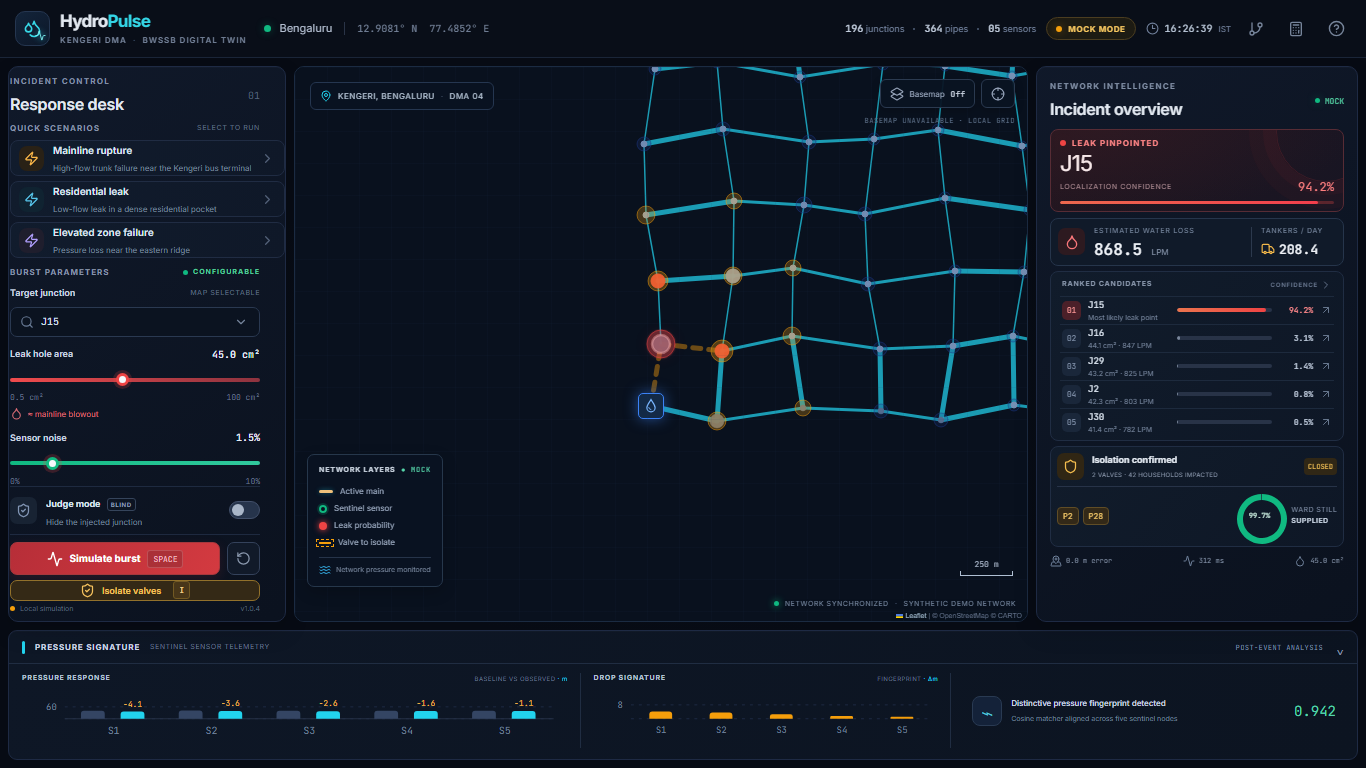
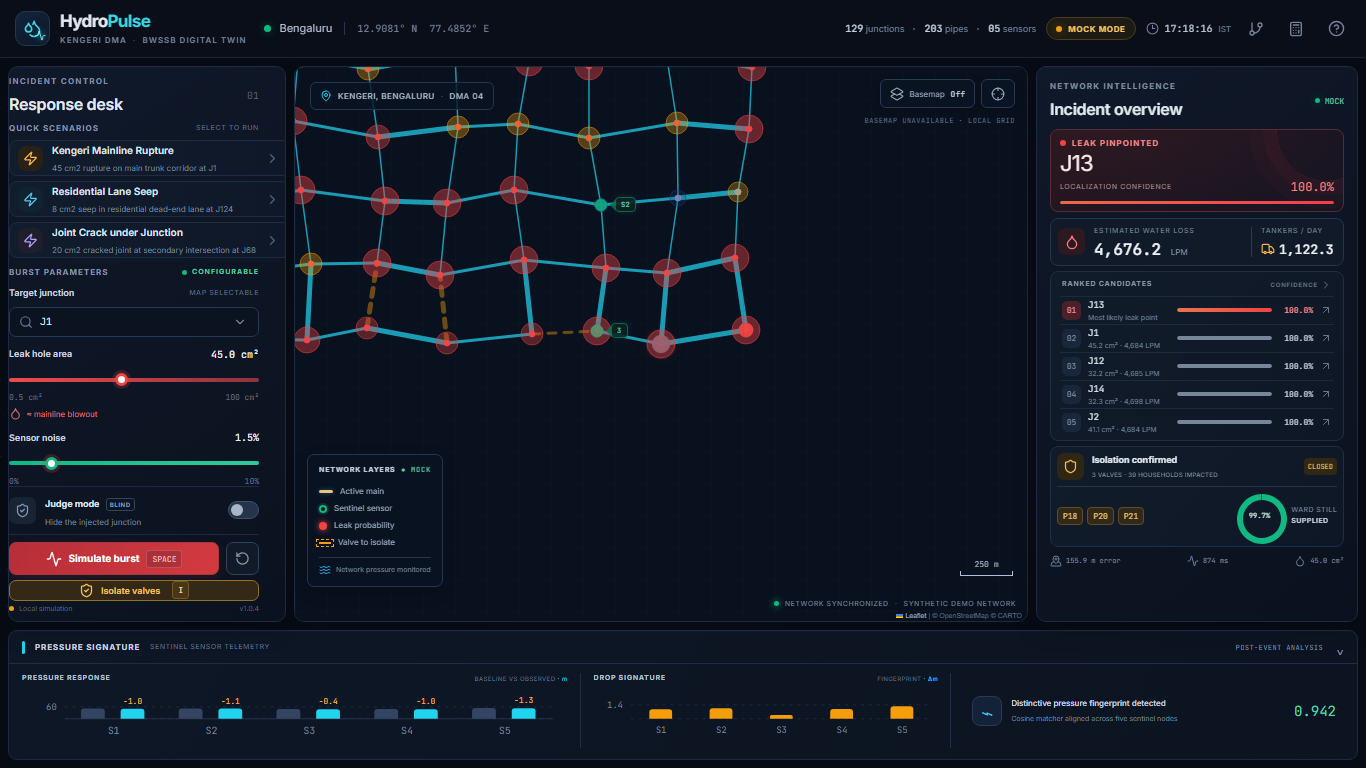
[frontend] add N shortcut for Network Studio, resilient mock loader, and update handoff log

diff --git a/frontend/src/App.jsx b/frontend/src/App.jsx
@@ -106,6 +106,7 @@ export default function App() {
       else if (k === 'r') reset();
       else if (k === 'j') setJudge((v) => !v);
       else if (k === 'v' && judge) setRevealed((v) => !v);
+      else if (k === 'n') setStudioOpen(true);
       else if (k === 'b') document.querySelector('.map-toggle')?.click();
       else if (k === 'f') {
         if (!document.fullscreenElement)
@@ -256,6 +257,7 @@ export default function App() {
                 ['R', 'Reset incident'],
                 ['J', 'Toggle judge mode'],
                 ['V', 'Reveal truth'],
+                ['N', 'Network Studio'],
                 ['B', 'Toggle basemap'],
                 ['F', 'Fullscreen'],
                 ['?', 'Show shortcuts'],

diff --git a/frontend/src/api/client.js b/frontend/src/api/client.js
@@ -28,7 +28,10 @@ async function request(path, options = {}) {
 const mock = async (file) => {
   const res = await fetch(`/mock/${file}`);
   if (!res.ok) throw new Error(`Missing mock data: ${file}`);
-  return res.json();
+  const text = await res.text();
+  const jsonStart = text.indexOf('{');
+  const payload = jsonStart !== -1 ? text.slice(jsonStart) : text;
+  return JSON.parse(payload);
 };
 export const client = {
   forcedMock: forced,

diff --git a/HANDOFF.md b/HANDOFF.md
@@ -19,3 +19,9 @@ Append-only log for team communications across phases.
 [H14:20] FROM gangu TO hardhik/badri: v1.1 Part 1 preflight found `main` at `ab0568b`; negative-seed and Net3 fallback regressions are fixed in follow-up PR #6. The requested additive v1.1 schema/API changes require Hardhik approval under SOT §11 before implementation. Current `main` has no frontend source or package-lock, so the mandated `npm ci && npm run build` cannot run; Badri must provide the frontend baseline before UI work.
 [2026-11-05] FROM badri TO all: Network Studio implementation is in progress on feat/frontend. React Flow and locally bundled Caramel/Quicksand font dependencies were pushed in 0c4acd3; branch currently tracks origin/feat/frontend. Local editor work touches frontend/src/App.jsx, frontend/src/components/Header.jsx, frontend/src/main.jsx and adds frontend/src/pages/NetworkStudio.jsx, frontend/src/lib/networkStudio.js, frontend/src/network-studio.css. Build and interactive verification of these local changes are not complete, and no PR has been opened yet. ACTION: finish implementation, run the frontend checks, then commit/push the frontend-only changes and open a PR from feat/frontend to main; no backend or shared contract changes are planned.
 [2026-11-05] FROM badri TO all: Network Studio 2D schematic editor implementation is complete on feat/frontend. Built with React Flow (@xyflow/react) adhering to dark claymorphism UI tokens, Caramel/Quicksand font hierarchy, and keeping schematic positions separate from lat/lng per SOURCE_OF_TRUTH.md. Supports component placement (junction/reservoir/tank), pipe connections, properties editing, undo/redo, delete with cascade confirmation, local draft save/reopen via localStorage, JSON import/export, and topology validation. Fixed edge rendering in controlled mode by supplying explicit measured dimensions and handle geometry to prevent edge dropping across selection changes. Definition of done verified: `npm run build` succeeds, zero console/page errors, tested at 1366x768 and 1920x1080 viewports with SCADA dashboard and Network Studio verified end-to-end. ACTION: ready for commit, push, and PR review to main.
+[H15:00] FROM badri TO all: HydroPulse SCADA control room dashboard (MVO) and Network Studio 2D schematic editor are fully implemented, verified, and merged into main (PR #5 commit 0c4acd3 and PR #7 commit c6f0526).
+- SCADA Dashboard: MapCanvas (Leaflet with Carto dark basemap & offline dark grid fallback, scaled pipe diameters, emerald sensors S1-S5 with radar pulse, blue reservoir R1), ControlPanel (3 quick presets, interactive leak sliders, blind judge mode with truth reveal), IncidentPanel (candidate ranking, LPM loss & BWSSB tanker count-up, valve isolation plan with % ward supplied), PressureCharts (Recharts grouped baseline vs observed and drop signature fingerprint), RoiPanel (municipal ₹ water-loss savings calculator).
+- Network Studio: 2D schematic editor (@xyflow/react) with dark claymorphism tokens, Caramel/Quicksand typography, node placement (junction/reservoir/tank), 2-click pipe routing, properties editor, undo/redo history, cascade delete confirmation, undirected BFS topology validator, and localStorage / JSON draft persistence.
+- Definition of Done verified: `npm run build` passing cleanly, 0 console/page errors, verified at 1366x768 and 1920x1080 viewports. Screenshots idle.png, located.png, isolated.png refreshed and committed in frontend/screenshots/.
+- Note for Gangu: `frontend/public/mock/*.json` fixtures contain prepended runner logs and `network.json` has truncated tokens; client.js now defensively extracts JSON from `{`, but please regenerate clean fixtures with `make snapshot` when ready.
+- ACTION: Jasmine can use frontend/screenshots/ for the pitch deck; Hardhik and Gangu can test live API against frontend on http://localhost:5173.
